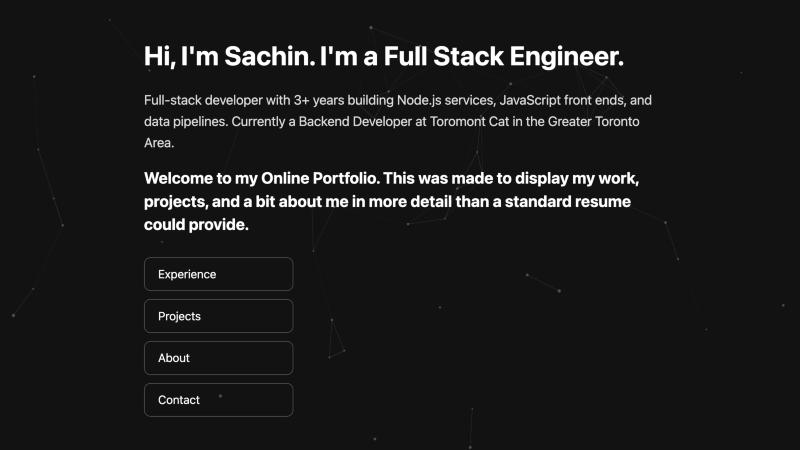
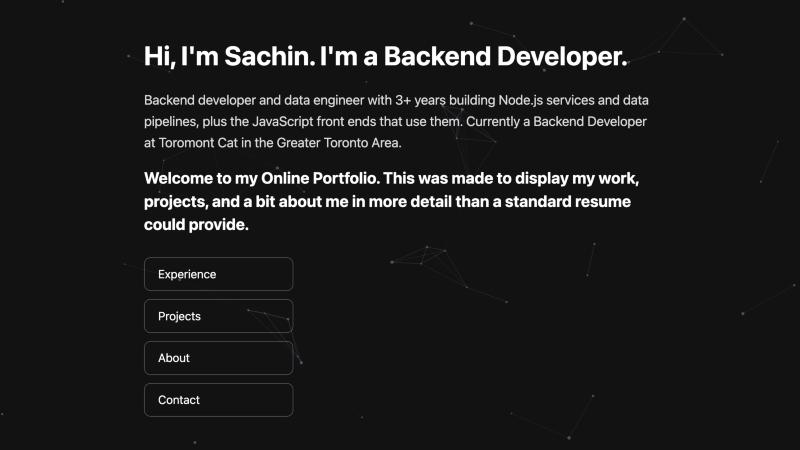
changed the wording of a few things

Changed region(s): [[0.1562, 0.1867, 0.8125, 0.3422], [0.4688, 0.0933, 0.7812, 0.1556]]

diff --git a/index.html b/index.html
@@ -3,15 +3,15 @@
   <head>
     <meta charset="UTF-8" />
     <meta name="viewport" content="width=device-width, initial-scale=1.0" />
-    <title>Sachin Khargie · Full Stack Developer</title>
-    <meta name="description" content="Sachin Khargie, full-stack developer in the Greater Toronto Area. 3+ years building Node.js services, JavaScript front ends, and data pipelines." />
+    <title>Sachin Khargie · Backend Developer &amp; Data Engineer</title>
+    <meta name="description" content="Sachin Khargie, backend developer and data engineer in the Greater Toronto Area. 3+ years building Node.js services, data pipelines, and JavaScript front ends." />
 
     <!-- Link previews on LinkedIn, Slack, iMessage, email, etc. (Open Graph) -->
     <!-- If you move to a custom domain, update the two URLs below -->
     <meta property="og:type" content="website" />
     <meta property="og:url" content="https://onlineresume-e0975.web.app/" />
-    <meta property="og:title" content="Sachin Khargie · Full Stack Developer" />
-    <meta property="og:description" content="Experience, projects, and a bit about me: 3+ years building Node.js services, JavaScript front ends, and data pipelines." />
+    <meta property="og:title" content="Sachin Khargie · Backend Developer &amp; Data Engineer" />
+    <meta property="og:description" content="Experience, projects, and a bit about me: 3+ years building Node.js services, data pipelines, and JavaScript front ends." />
     <meta property="og:image" content="https://onlineresume-e0975.web.app/og-image.jpg" />
     <meta property="og:image:width" content="800" />
     <meta property="og:image:height" content="420" />

diff --git a/src/pages/home.ts b/src/pages/home.ts
@@ -11,7 +11,7 @@ export function Home (container: HTMLElement) {
     <div>
         <h1>Hi, I'm Sachin. I'm a <span id="role"></span></h1>
         <!-- One-line summary, so a recruiter skimming the first screen gets the key facts -->
-        <p class="home-summary">Full-stack developer with 3+ years building Node.js services, JavaScript front ends, and data pipelines. Currently a Backend Developer at Toromont Cat in the Greater Toronto Area.</p>
+        <p class="home-summary">Backend developer and data engineer with 3+ years building Node.js services and data pipelines, plus the JavaScript front ends that use them. Currently a Backend Developer at Toromont Cat in the Greater Toronto Area.</p>
         <h2>Welcome to my Online Portfolio. This was made to display my work, projects, and a bit about me in more detail than a standard resume could provide.</h2>
         <!-- Hidden until the PDF exists (see resumePdf.ts) -->
         <div class="project-links" data-resume hidden>
@@ -33,7 +33,7 @@ export function Home (container: HTMLElement) {
     typed?.destroy();
     // New typed object, creates the speed, loop boolean and list of words to cycle through
     typed = new Typed("#role", {
-        strings: ["Platform Engineer.", "Full Stack Engineer.", "problem solver."],
+        strings: ["Backend Developer.", "Data Engineer."],
         typeSpeed: 60,
         backSpeed: 30,
         loop: true,

diff --git a/src/router.ts b/src/router.ts
@@ -13,7 +13,7 @@ interface Route {
 
 // Dictionary object that maps the key (path) to the value (page and its title)
 const routes: Record<string, Route> = {
-    '/': { render: Home, title: "Sachin Khargie · Full Stack Developer" },
+    '/': { render: Home, title: "Sachin Khargie · Backend Developer & Data Engineer" },
     '/experience': { render: Experience, title: "Experience · Sachin Khargie" },
     '/projects': { render: Projects, title: "Projects · Sachin Khargie" },
     '/neetcode': { render: Neetcode, title: "NeetCode · Sachin Khargie" },

diff --git a/src/pages/contact.ts b/src/pages/contact.ts
@@ -22,7 +22,7 @@ export function Contact (container: HTMLElement) {
     </div>
 
     <section class="about-intro">
-        <p>I'm open to new full-stack and backend developer roles. Whether you're hiring, want to collaborate on something,
+        <p>I'm open to new backend, data engineering, and full-stack developer roles. Whether you're hiring, want to collaborate on something,
         or just want to talk shop, I'd love to hear from you. Email is the best way to reach me.</p>
     </section>
 
